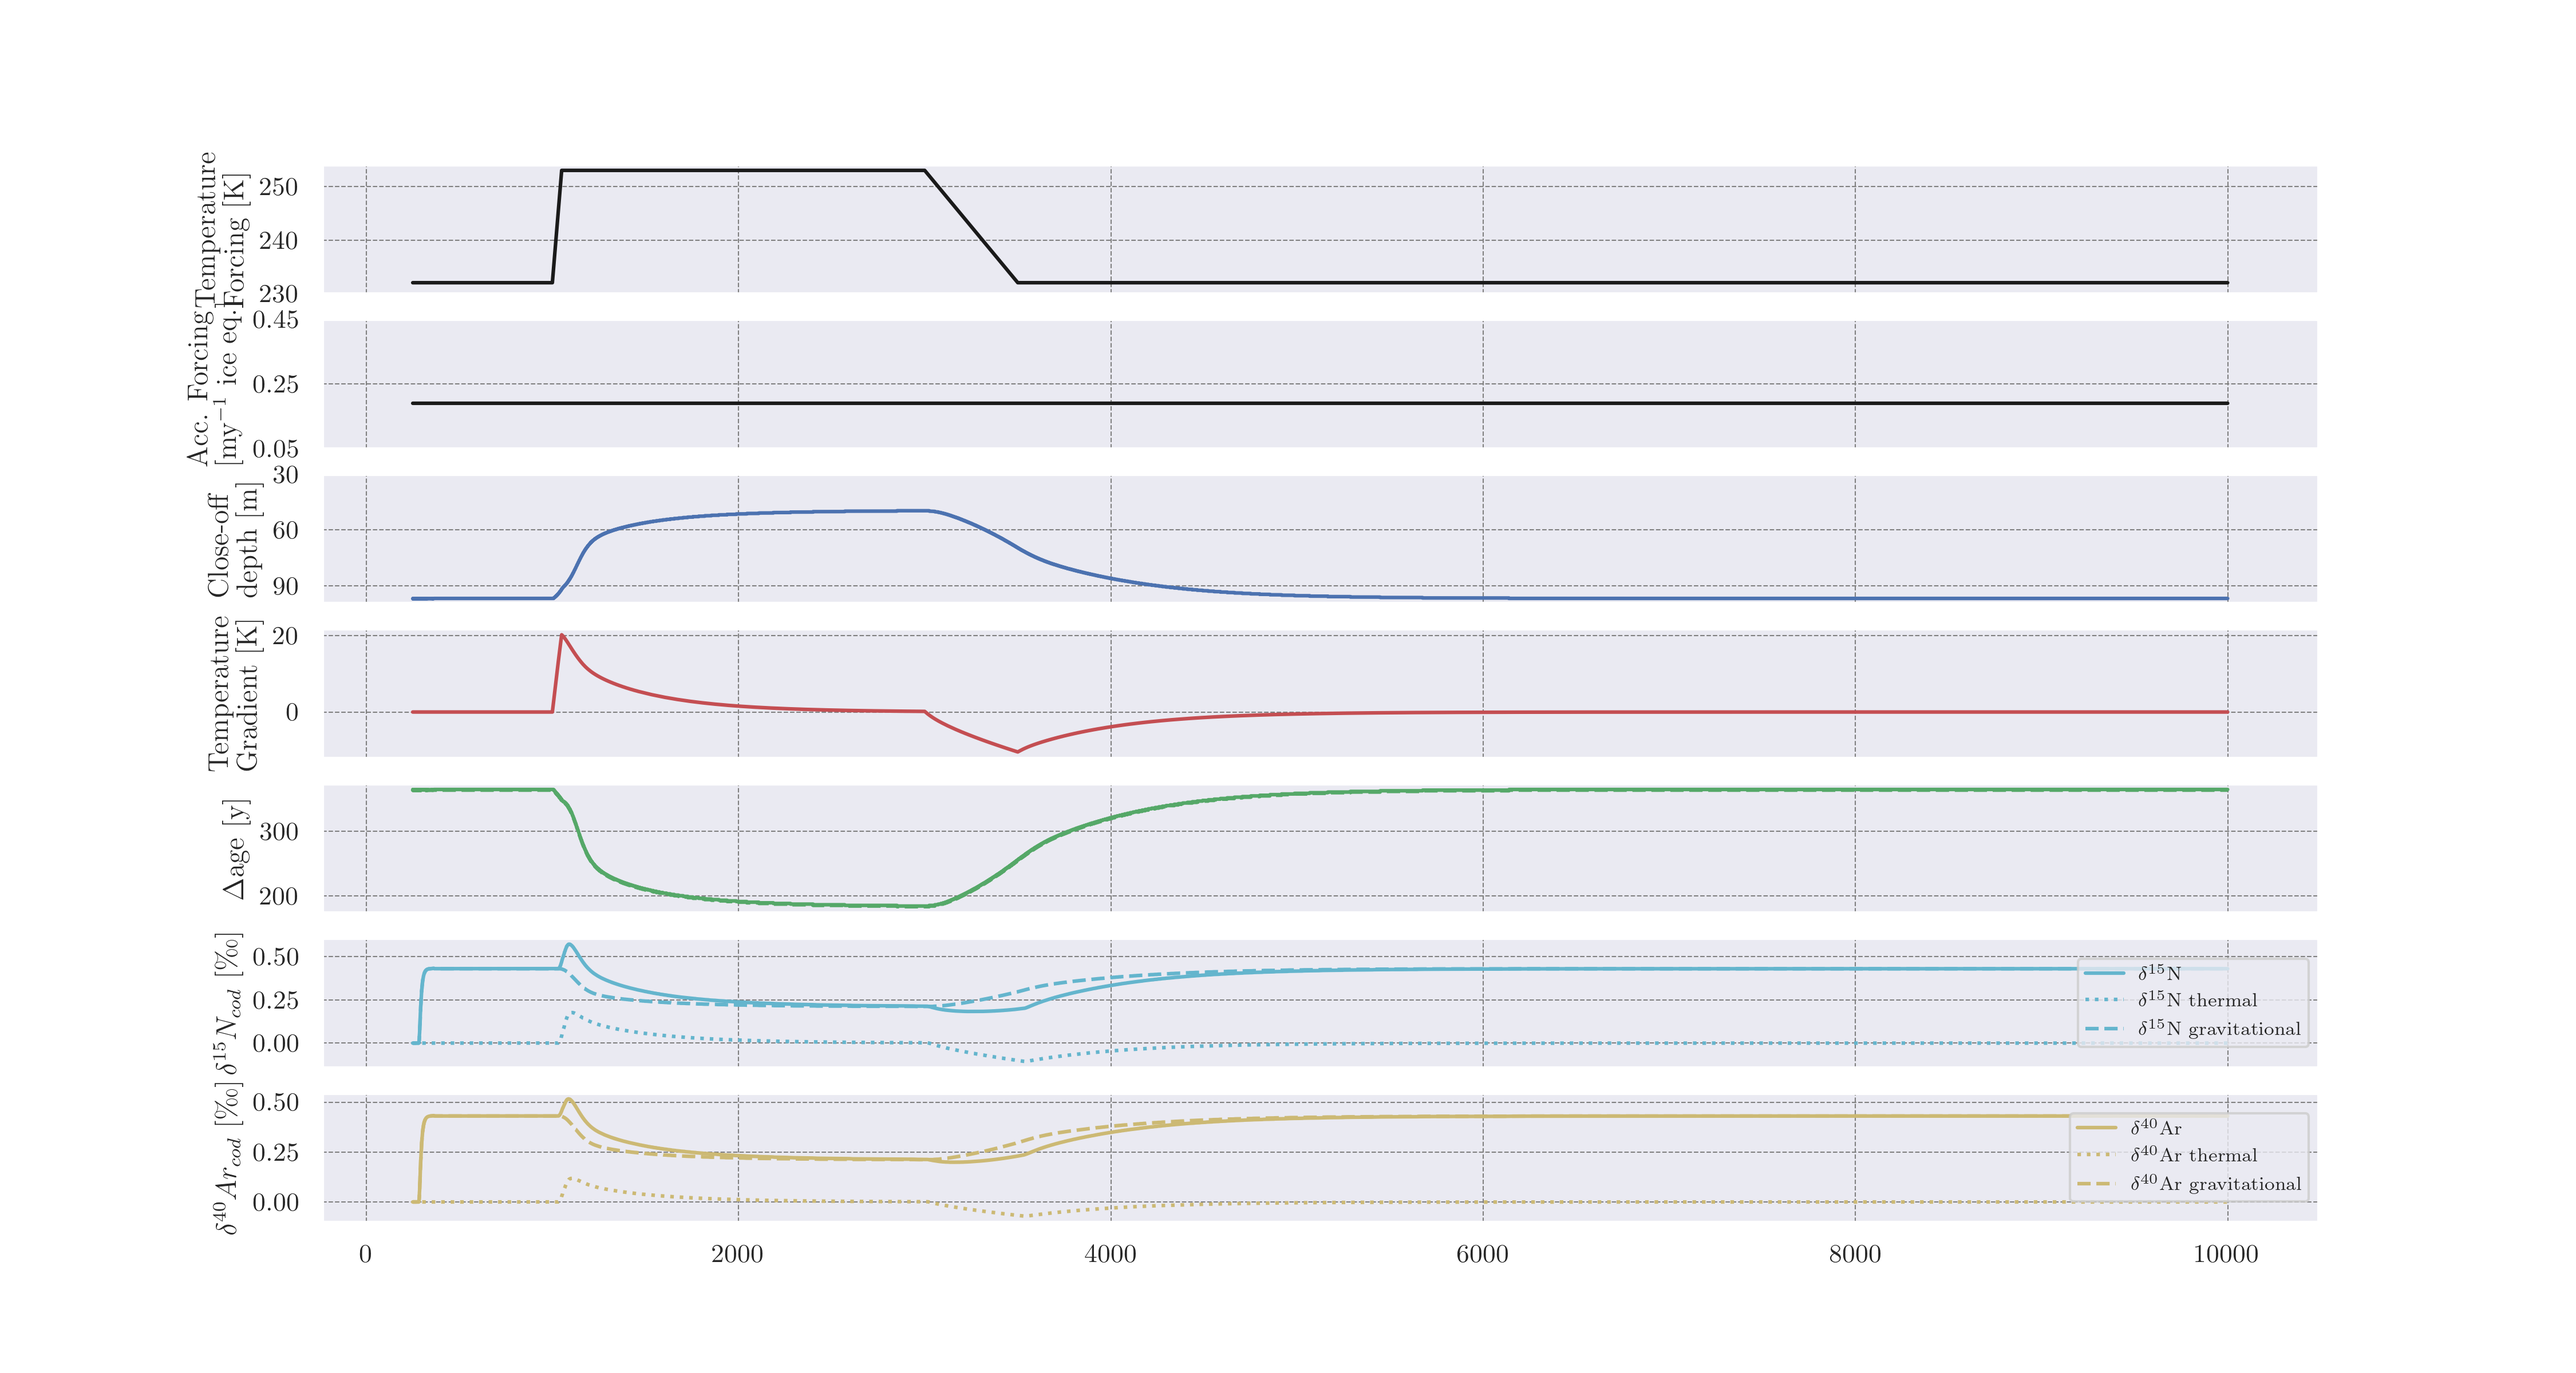
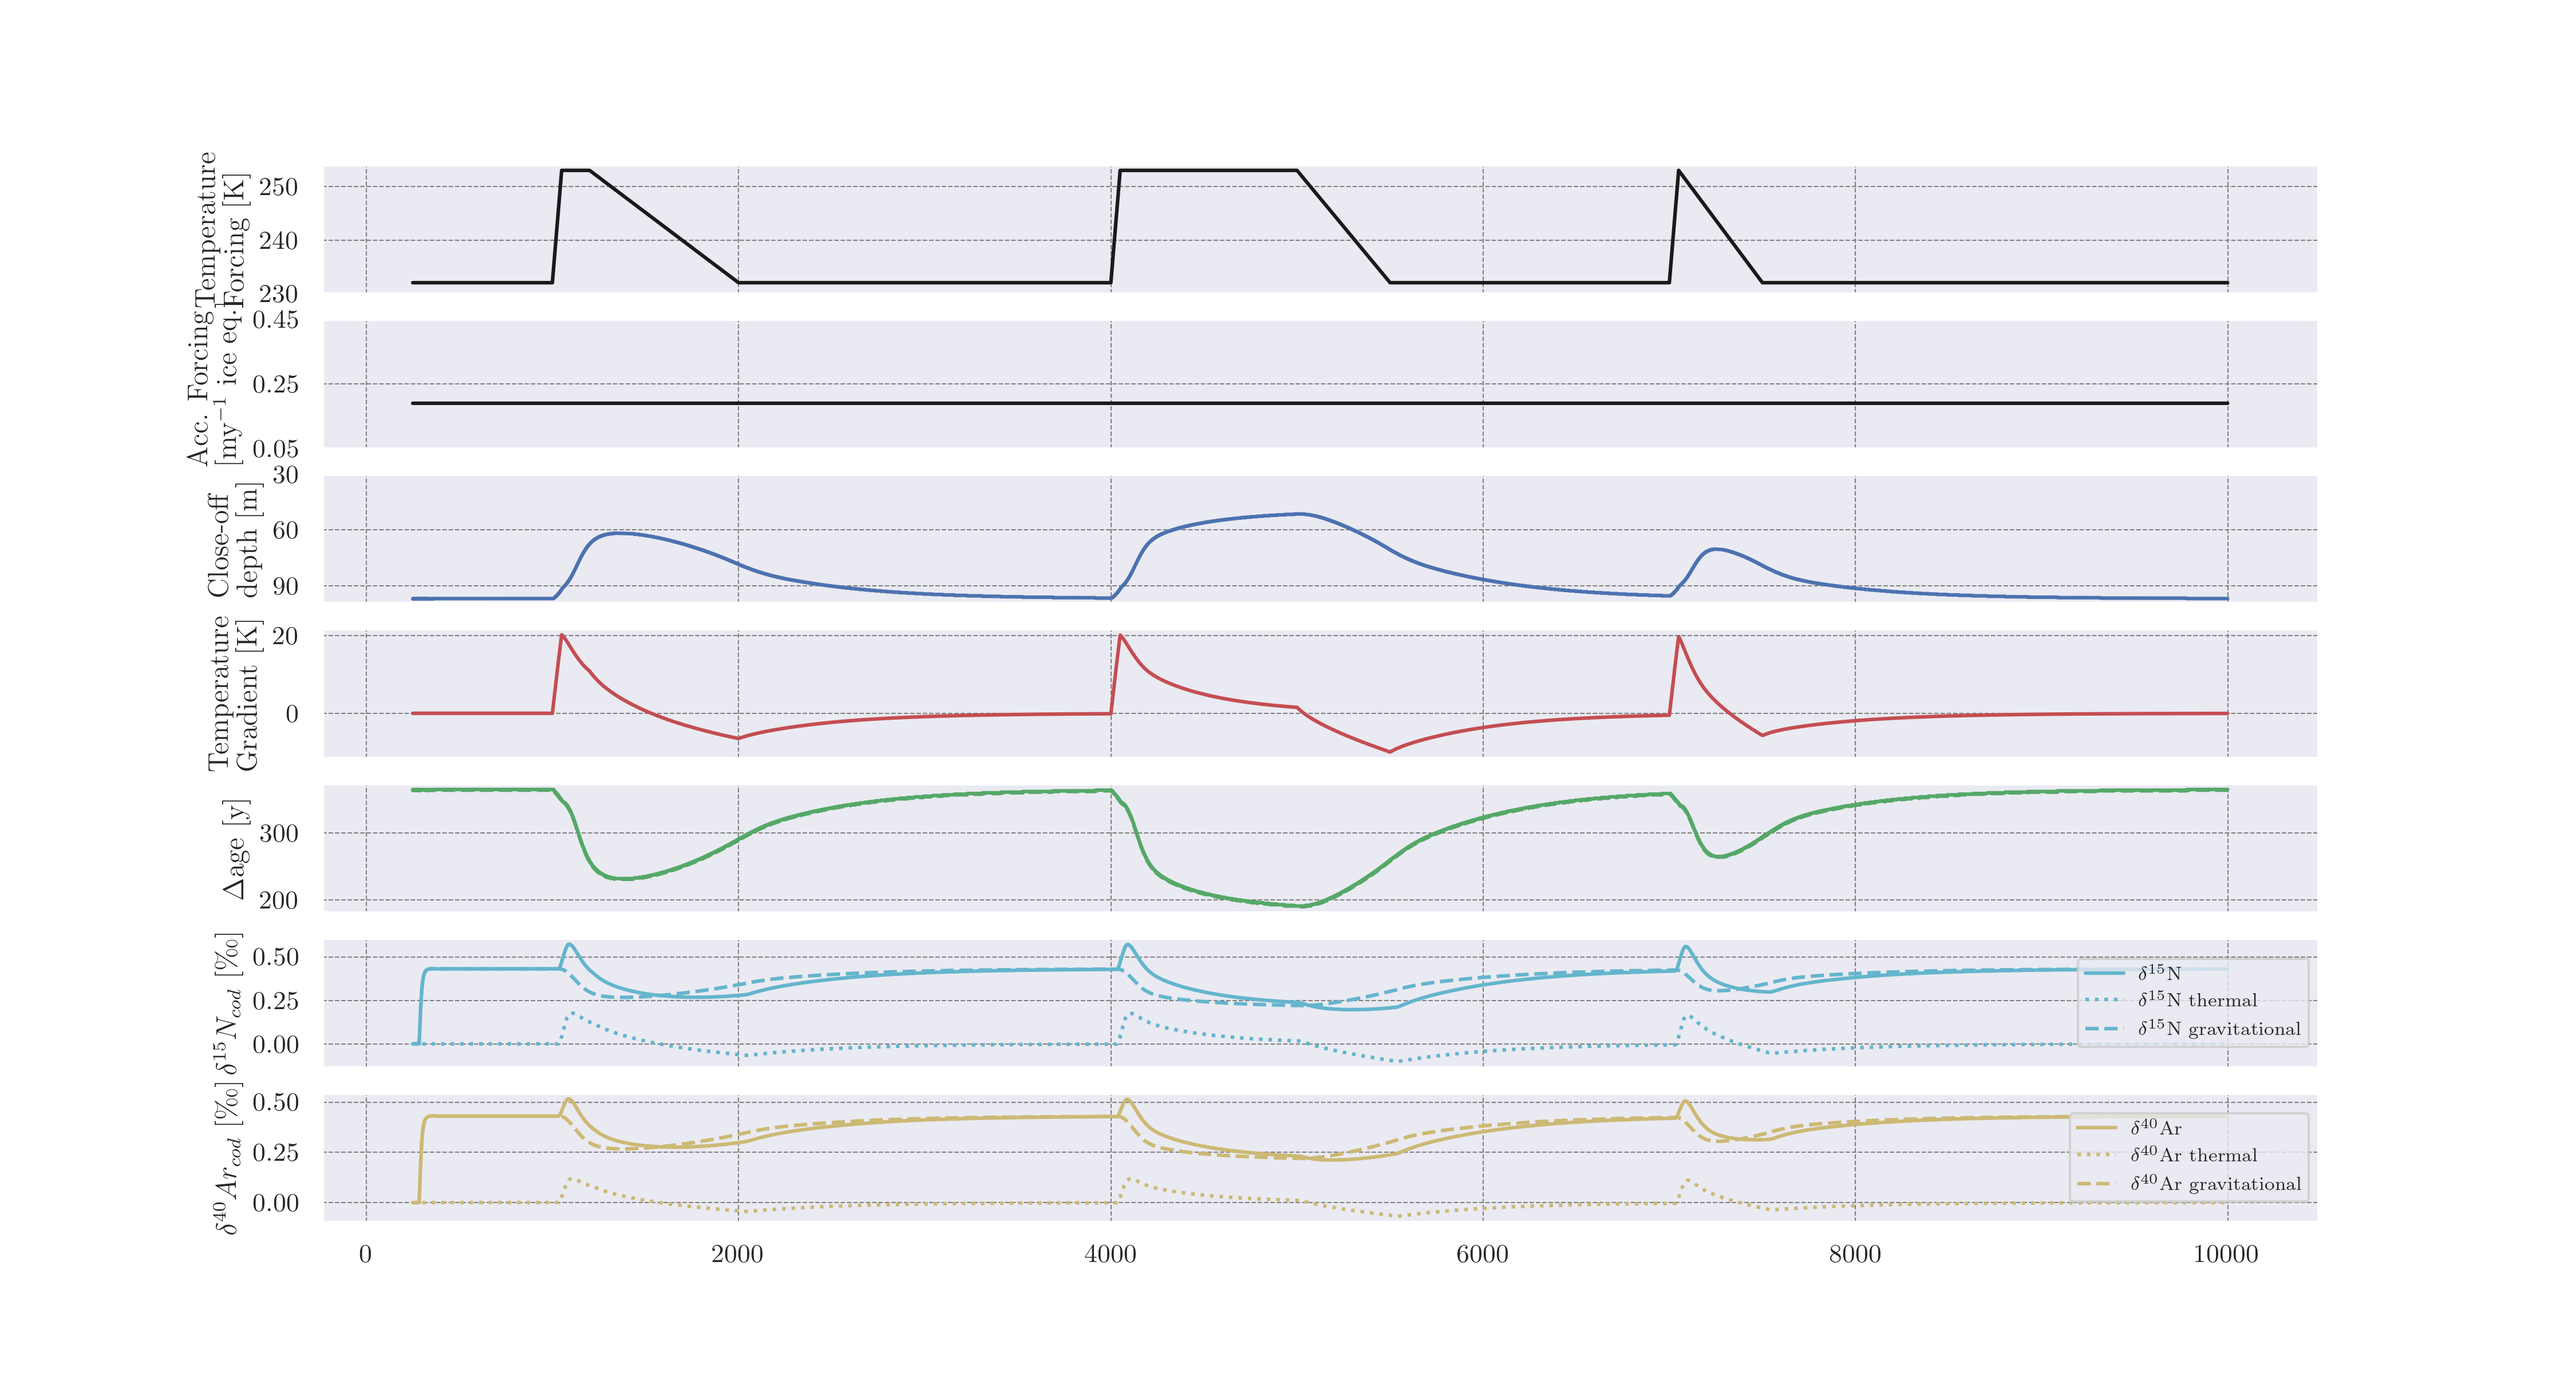
Test
test

diff --git a/Python/Advection_compare.py b/Python/Advection_compare.py
@@ -29,9 +29,9 @@ class CoD_plotter():
         self.filepath = filepath
         self.f1path = f1path
         self.KtC = KtC
-        rows,cols  = 3,2
-        self.fig,self.ax = plt.subplots(rows,cols,figsize=(15, 8), sharex=True,sharey=False)
-        
+        self.rows,self.cols  = 6,1
+        self.fig,self.ax = plt.subplots(self.rows,self.cols,figsize=(15, 8), sharex=True,sharey=False)
+        #print(self.ax.shape)
         return
  
 
@@ -78,32 +78,53 @@ class CoD_plotter():
                 self.climate[:,2] - 273.15
      
             f.close()
-            self.ax[0,0].plot(self.model_time,self.d15N_cod * 1000,'--',label = labels[k])#,color=cmap(cmap_intervals[k]))
-            self.ax[1,0].plot(self.model_time,self.d15n_grav_cod * 1000,'--',label = labels[k])#,color=cmap(cmap_intervals[k]))
-            self.ax[2,0].plot(self.model_time,self.d15N_th_cod * 1000,'--',label = labels[k])#,color=cmap(cmap_intervals[k]))
-            self.ax[0,1].plot(self.model_time,self.d40Ar_cod * 1000/4,'--',label = labels[k])#,color=cmap(cmap_intervals[k]))
-            self.ax[1,1].plot(self.model_time,self.d40ar_grav_cod * 1000/4,'--',label = labels[k])#,color=cmap(cmap_intervals[k]))
-            self.ax[2,1].plot(self.model_time,self.d40Ar_th_cod * 1000/4,'--',label = labels[k])#,color=cmap(cmap_intervals[k]))
+            if (self.rows == 3 and self.cols == 2):
+                
+                self.ax[0,0].plot(self.model_time,self.d15N_cod * 1000,'--',label = labels[k])#,color=cmap(cmap_intervals[k]))
+                self.ax[1,0].plot(self.model_time,self.d15n_grav_cod * 1000,'--',label = labels[k])#,color=cmap(cmap_intervals[k]))
+                self.ax[2,0].plot(self.model_time,self.d15N_th_cod * 1000,'--',label = labels[k])#,color=cmap(cmap_intervals[k]))
+                self.ax[0,1].plot(self.model_time,self.d40Ar_cod * 1000/4,'--',label = labels[k])#,color=cmap(cmap_intervals[k]))
+                self.ax[1,1].plot(self.model_time,self.d40ar_grav_cod * 1000/4,'--',label = labels[k])#,color=cmap(cmap_intervals[k]))
+                self.ax[2,1].plot(self.model_time,self.d40Ar_th_cod * 1000/4,'--',label = labels[k])#,color=cmap(cmap_intervals[k]))
             
             
-            self.ax[0,0].set_ylabel(r'$\delta^{15}N_{cod}$ [‰]')
-            self.ax[1,0].set_ylabel(r'$\delta^{15}N_{cod,grav}$ [‰]')
-            self.ax[2,0].set_ylabel(r'$\delta^{15}N_{cod,th}$ [‰]')
-            self.ax[0,1].set_ylabel(r'$\delta^{40}Ar_{cod}$ [‰]')
-            self.ax[1,1].set_ylabel(r'$\delta^{40}Ar_{cod,grav}$ [‰]')
-            self.ax[2,1].set_ylabel(r'$\delta^{40}Ar_{cod,th}$ [‰]')
-            for i in range(len(self.ax[:,0])):
-                for j in range((len(self.ax[0,:]))):
-                    self.ax[i,j].grid(linestyle='--', color='gray', lw='0.5')
-                    self.ax[i,j].legend(loc='right', fontsize=8)
-
+                self.ax[0,0].set_ylabel(r'$\delta^{15}N_{cod}$ [‰]')
+                self.ax[1,0].set_ylabel(r'$\delta^{15}N_{cod,grav}$ [‰]')
+                self.ax[2,0].set_ylabel(r'$\delta^{15}N_{cod,th}$ [‰]')
+                self.ax[0,1].set_ylabel(r'$\delta^{40}Ar_{cod}$ [‰]')
+                self.ax[1,1].set_ylabel(r'$\delta^{40}Ar_{cod,grav}$ [‰]')
+                self.ax[2,1].set_ylabel(r'$\delta^{40}Ar_{cod,th}$ [‰]')
+                for i in range(self.rows):
+                    for j in range(self.cols):
+                        self.ax[i,j].grid(linestyle='--', color='gray', lw='0.5')
+                        self.ax[i,j].legend(loc='right', fontsize=8)
+            elif self.rows == 6:
+                #print(2+2)
+                self.ax[0].plot(self.model_time,self.d15N_cod * 1000,'--',label = labels[k])#,color=cmap(cmap_intervals[k]))
+                self.ax[1].plot(self.model_time,self.d15n_grav_cod * 1000,'--',label = labels[k])#,color=cmap(cmap_intervals[k]))
+                self.ax[2].plot(self.model_time,self.d15N_th_cod * 1000,'--',label = labels[k])#,color=cmap(cmap_intervals[k]))
+                self.ax[3].plot(self.model_time,self.d40Ar_cod * 1000/4,'--',label = labels[k])#,color=cmap(cmap_intervals[k]))
+                self.ax[4].plot(self.model_time,self.d40ar_grav_cod * 1000/4,'--',label = labels[k])#,color=cmap(cmap_intervals[k]))
+                self.ax[5].plot(self.model_time,self.d40Ar_th_cod * 1000/4,'--',label = labels[k])#,color=cmap(cmap_intervals[k]))
+            
+            
+                self.ax[0].set_ylabel(r'$\delta^{15}N_{cod}$ [‰]')
+                self.ax[1].set_ylabel(r'$\delta^{15}N_{cod,grav}$ [‰]')
+                self.ax[2].set_ylabel(r'$\delta^{15}N_{cod,th}$ [‰]')
+                self.ax[3].set_ylabel(r'$\delta^{40}Ar_{cod}$ [‰]')
+                self.ax[4].set_ylabel(r'$\delta^{40}Ar_{cod,grav}$ [‰]')
+                self.ax[5].set_ylabel(r'$\delta^{40}Ar_{cod,th}$ [‰]')
+                for i in range(self.rows):
+                    #for j in range((len(self.ax[0,:]))):
+                    self.ax[i].grid(linestyle='--', color='gray', lw='0.5')
+                    self.ax[i].legend(loc='right', fontsize=8)
 rfolder = 'CFM/CFM_main/CFMoutput/DO_event/'
 
 
 def folder_gen(Model,exp,fold,FileFlag):
     X = [exp]
     X2 = [Model]
-    Y = ['Christo/', 'Darcy/', 'zero/']
+    Y = ['Christo/', 'Darcy/']#, 'zero/']
     Z = [fold]
     if FileFlag == True:
         X = [x[:-1] for x in X]

diff --git a/Python/COD_read.py b/Python/COD_read.py
@@ -21,7 +21,9 @@ class CoD_plotter():
 
     def __init__(self,filepath=None):
         self.filepath = filepath
+        self.filepath = 'CFM/CFM_main/CFMoutput/Constant_Forcing/Fuji/KuipersMunneke2015'
         rfile = 'CFMresults.hdf5'
+        rfile = 'KuipersMunneke2015Fuji.hdf5'
         self.fs = os.path.join(self.filepath,rfile)
         f = h5.File(self.fs,'r')        
         #print(self.fs)
@@ -34,17 +36,17 @@ class CoD_plotter():
         self.climate = f["Modelclimate"][:]
         self.model_time = np.array(([a[0] for a in self.z[:]]))
         self.close_off_depth = f["BCO"][:, 2]
-        self.d15N = (f["d15N2"][:]-1.) * 1000
-        self.d40Ar = (f["d40Ar"][:]-1.) * 1000
+        #self.d15N = (f["d15N2"][:]-1.) * 1000
+        #self.d40Ar = (f["d40Ar"][:]-1.) * 1000
         
-        self.d15N_cod = np.ones_like(self.model_time)
-        self.d40Ar_cod = np.ones_like(self.model_time)
+        #self.d15N_cod = np.ones_like(self.model_time)
+        #self.d40Ar_cod = np.ones_like(self.model_time)
         
         
-        for i in range(self.z.shape[0]):
-            idx = int(np.where(self.z[i, 1:] == self.close_off_depth[i])[0])
-            self.d15N_cod[i] = self.d15N[i,idx]
-            self.d40Ar_cod[i] = self.d40Ar[i,idx]
+        #for i in range(self.z.shape[0]):
+        #    idx = int(np.where(self.z[i, 1:] == self.close_off_depth[i])[0])
+        #    self.d15N_cod[i] = self.d15N[i,idx]
+        #    self.d40Ar_cod[i] = self.d40Ar[i,idx]
         
     
         #print(self.d15N_cod.shape)
@@ -127,13 +129,13 @@ class CoD_plotter():
         self.ax02.plot(self.climate[:,0],self.climate[:,1],color=cmap(cmap_interval[1]))
         for i in range(len(Times)):
             self.ax[0,1].plot(self.rho[Times[i]][1:], self.z[Times[i]][1:],color=cmap(cmap_interval[i]),linestyle='--',linewidth=0.7,label=time_labels[i])
-            self.ax[0,2].plot(self.d15N[Times[i]][1:], self.z[Times[i]][1:],color=cmap(cmap_interval[i]),linestyle='-',linewidth=0.7,label=time_labels[i])
+        #    self.ax[0,2].plot(self.d15N[Times[i]][1:], self.z[Times[i]][1:],color=cmap(cmap_interval[i]),linestyle='-',linewidth=0.7,label=time_labels[i])
             self.ax[1,1].plot(self.temperature[Times[i]][1:], self.z[Times[i]][1:],color=cmap(cmap_interval[i]),linestyle='-',linewidth=0.7,label=time_labels[i])
         #print(self.d15N_cod.shape,self.close_off_depth.shape)
         
         
-        self.ax[1,0].plot(self.model_time,self.d15N_cod,color=cmap(cmap_interval[2]),linewidth=0.7)
-        self.ax10.plot(self.model_time,self.d40Ar_cod/4,color=cmap(cmap_interval[1]),linewidth=0.7)
+        #self.ax[1,0].plot(self.model_time,self.d15N_cod,color=cmap(cmap_interval[2]),linewidth=0.7)
+        #self.ax10.plot(self.model_time,self.d40Ar_cod/4,color=cmap(cmap_interval[1]),linewidth=0.7)
         self.ax[1,2].plot(self.z[:, 0],self.close_off_depth,linewidth=0.7)
         #self.ax[1,2].set_ylim(90,60)
         self.ax[0,1].legend(loc='lower left',fontsize=legFont)
@@ -168,7 +170,7 @@ folder = './CFM/CFM_main/CFMinput'
 Folder = [name for name in os.listdir(folder) if os.path.isdir(os.path.join(folder, name))]
 rfolder = 'CFM/CFM_main/CFMoutput/'
     
-for i in range(len(Folder)):
+for i in range(1):
     print(Folder[i])
     if os.path.exists(rfolder + Folder[i]+"/CFMresults.hdf5"):
         Current_plot = CoD_plotter(filepath=rfolder+Folder[i])

diff --git a/Python/mytable.tex b/Python/mytable.tex
@@ -9,20 +9,20 @@
 Temp & 242.05 & 215.85 & 247.75 & 254.2 \\
 Acc & 0.19 & 0.028 & 0.13 & 1.2 \\
 CoD & 78.0 & 104.0 & 57.0 & 85.0 \\
-HLD & 71.3 & 113.2 & 48.9 & 89.6 \\
-HLS & 71.6 & 113.2 & 49.1 & 95.0 \\
-Li4 & 51.4 & 79.7 & 54.4 & 100.8 \\
-Li1 & 70.9 & 127.8 & 47.6 & 67.9 \\
-HEL & 68.3 & 111.3 & 61.2 & 57.8 \\
-ArtS & 49.8 & 126.7 & 40.0 & 29.0 \\
-ArtT & 55.4 & 84.8 & 43.0 & 34.1 \\
-Li5 & 64.6 & 0.0 & 0.0 & 0.0 \\
-GOU & 62.6 & 105.7 & 46.6 & 13.6 \\
-BAR & 69.3 & 111.0 & 53.0 & 74.0 \\
-MOR & 56.8 & 103.6 & 38.2 & 74.5 \\
-KM & 75.7 & 127.3 & 55.2 & 98.1 \\
-CRO & 78.3 & 125.7 & 56.3 & 89.9 \\
-LIG & 61.4 & 115.3 & 44.1 & 94.8 \\
+HLD & 64.6 & 115.8 & 46.1 & 0.0 \\
+HLS & 0.0 & 0.0 & 0.0 & 0.0 \\
+Li4 & 0.0 & 0.0 & 0.0 & 0.0 \\
+Li1 & 0.0 & 0.0 & 0.0 & 0.0 \\
+HEL & 0.0 & 0.0 & 0.0 & 0.0 \\
+ArtS & 0.0 & 0.0 & 0.0 & 0.0 \\
+ArtT & 0.0 & 0.0 & 0.0 & 0.0 \\
+Li5 & 0.0 & 0.0 & 0.0 & 0.0 \\
+GOU & 0.0 & 0.0 & 0.0 & 0.0 \\
+BAR & 0.0 & 0.0 & 0.0 & 0.0 \\
+MOR & 0.0 & 0.0 & 0.0 & 0.0 \\
+KM & 0.0 & 0.0 & 0.0 & 0.0 \\
+CRO & 0.0 & 0.0 & 0.0 & 0.0 \\
+LIG & 0.0 & 0.0 & 0.0 & 0.0 \\
 \bottomrule
 \end{tabular}
 \end{table}

diff --git a/Python/CodFirnAir.py b/Python/CodFirnAir.py
@@ -141,7 +141,7 @@ class CoD_plotter():
 
 rfolder = 'CFM/CFM_main/CFMoutput/DO_event/'
 x = ['Long', 'Short', 'Osc2','Osc']
-x2 = ['HLdynamic','Barnola1991']
+x2 = ['HLdynamic','Barnola1991','Goujon2003']
 y = ['zero', 'Christo', 'Darcy']
 #z = ['grav','Full']
 Folder = [(i+i2+j) for i in x for i2 in x2 for j in y]
@@ -149,7 +149,7 @@ Folder = [(i+i2+j) for i in x for i2 in x2 for j in y]
 
 def folder_gen(fold,FileFlag):
     X = ['Long/', 'Short/', 'Osc2/','Osc/']
-    X2 = ['HLdynamic/','Barnola1991/']
+    X2 = ['HLdynamic/','Barnola1991/','Goujon2003']
     Y = ['zero/', 'Christo/', 'Darcy/']
     if FileFlag == True:
         X = [x[:-1] for x in X]
@@ -176,6 +176,7 @@ for i in range(len(Folder)):
         
         
     else:
+        print(Folder[i])
         Current_plot = CoD_plotter(filepath=path,f1path=path_grav)
         Current_plot.plotting()
         plt.savefig('CoDv2/'+str(Folder[i])+'.png',dpi=300)

diff --git a/Python/Interp.py b/Python/Interp.py
@@ -14,13 +14,13 @@ cmap = plt.cm.get_cmap('viridis')
 from pathlib import Path
 
 def osc(period):
-    Time_steps = np.arange(0,8500)
+    Time_steps = np.arange(0,4000)
     #T = 5000 ### Number of years
     F = 1/period
     amplitude = 10
     t_0 = 249
     Array = amplitude * np.sin(2*np.pi*F*Time_steps) + t_0
-    Const = np.full(1500,t_0)
+    Const = np.full(1000,t_0)
     Temp = np.concatenate((Const,Array))
     Time = np.arange(0,10000)
     #Bdot = np.full(len(Time),1.9e-1)
@@ -31,7 +31,7 @@ def osc(period):
     return Time, Temp, Bdot
 def csv_gen(mode):
     if mode == 'Long':
-        Time = np.array([250,1000,1050,5000,5500,10000])
+        Time = np.array([250,1000,1050,3000,3500,5000])
         Temp = np.array([232.05,232.05,253,253,232.05,232.05])
         Bdot = np.full(len(Time),1.9e-1)
         #plt.plot(Time,Temp)

diff --git a/Python/Constant_Forcing_COD.py b/Python/Constant_Forcing_COD.py
@@ -55,6 +55,8 @@ class CoD_plotter():
             self.climate = f["Modelclimate"][:]
             self.model_time = np.array(([a[0] for a in self.z[:]]))
             self.close_off_depth = f["BCO"][:, 2]
+            if self.close_off_depth[i] < 0:
+                continue
             CoD_out[j,i] = self.close_off_depth[i]
             
             
@@ -142,7 +144,6 @@ headers = {
     "selector": "th:not(.index_name)",
     "props": "background-color: #800000; color: white; text-align: center"
 }
-
 
 
 

diff --git a/Python/main.py b/Python/main.py
@@ -43,7 +43,7 @@ def Air_run(Model,folder,advec,effect):
 
 
 #run(Folder)                
-Air_run('Goujon2003',Folder2,Advection,Effect)
+Air_run('Barnola1991',Folder2,Advection,Effect)
 #Models = ['HLdynamic','Barnola1991','Goujon2003']
 #from multiprocessing import Process
 '''
